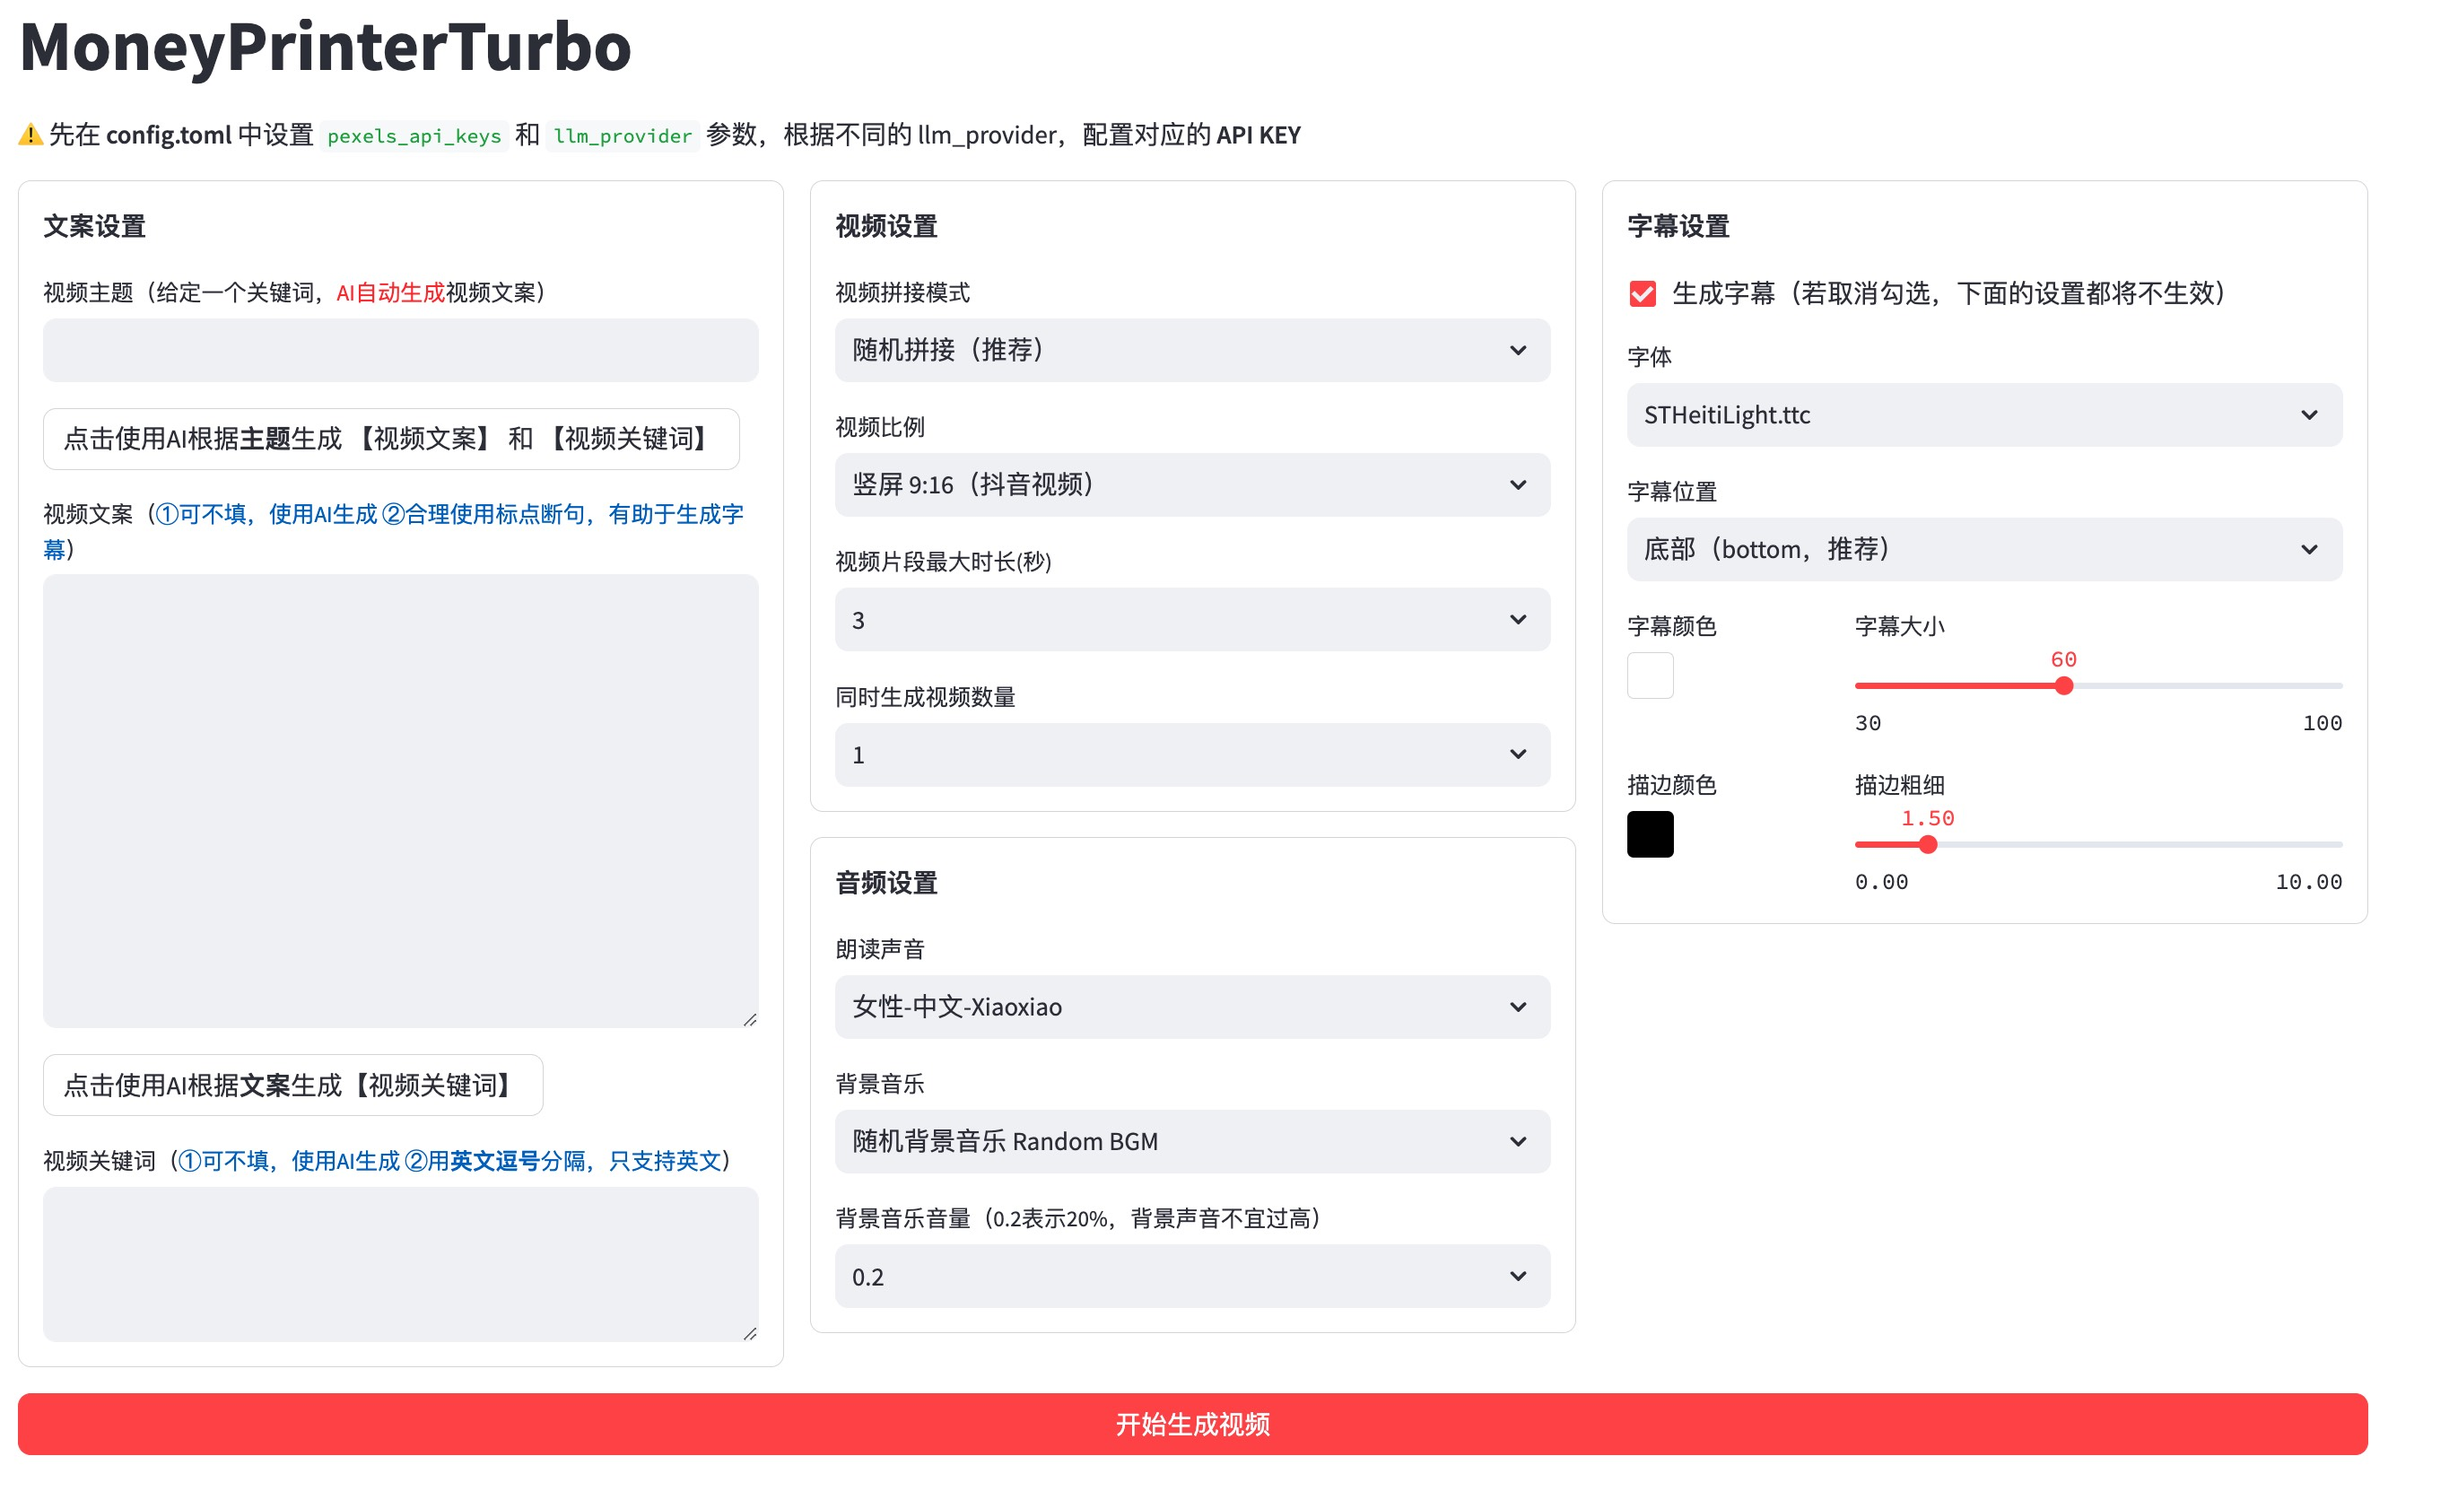
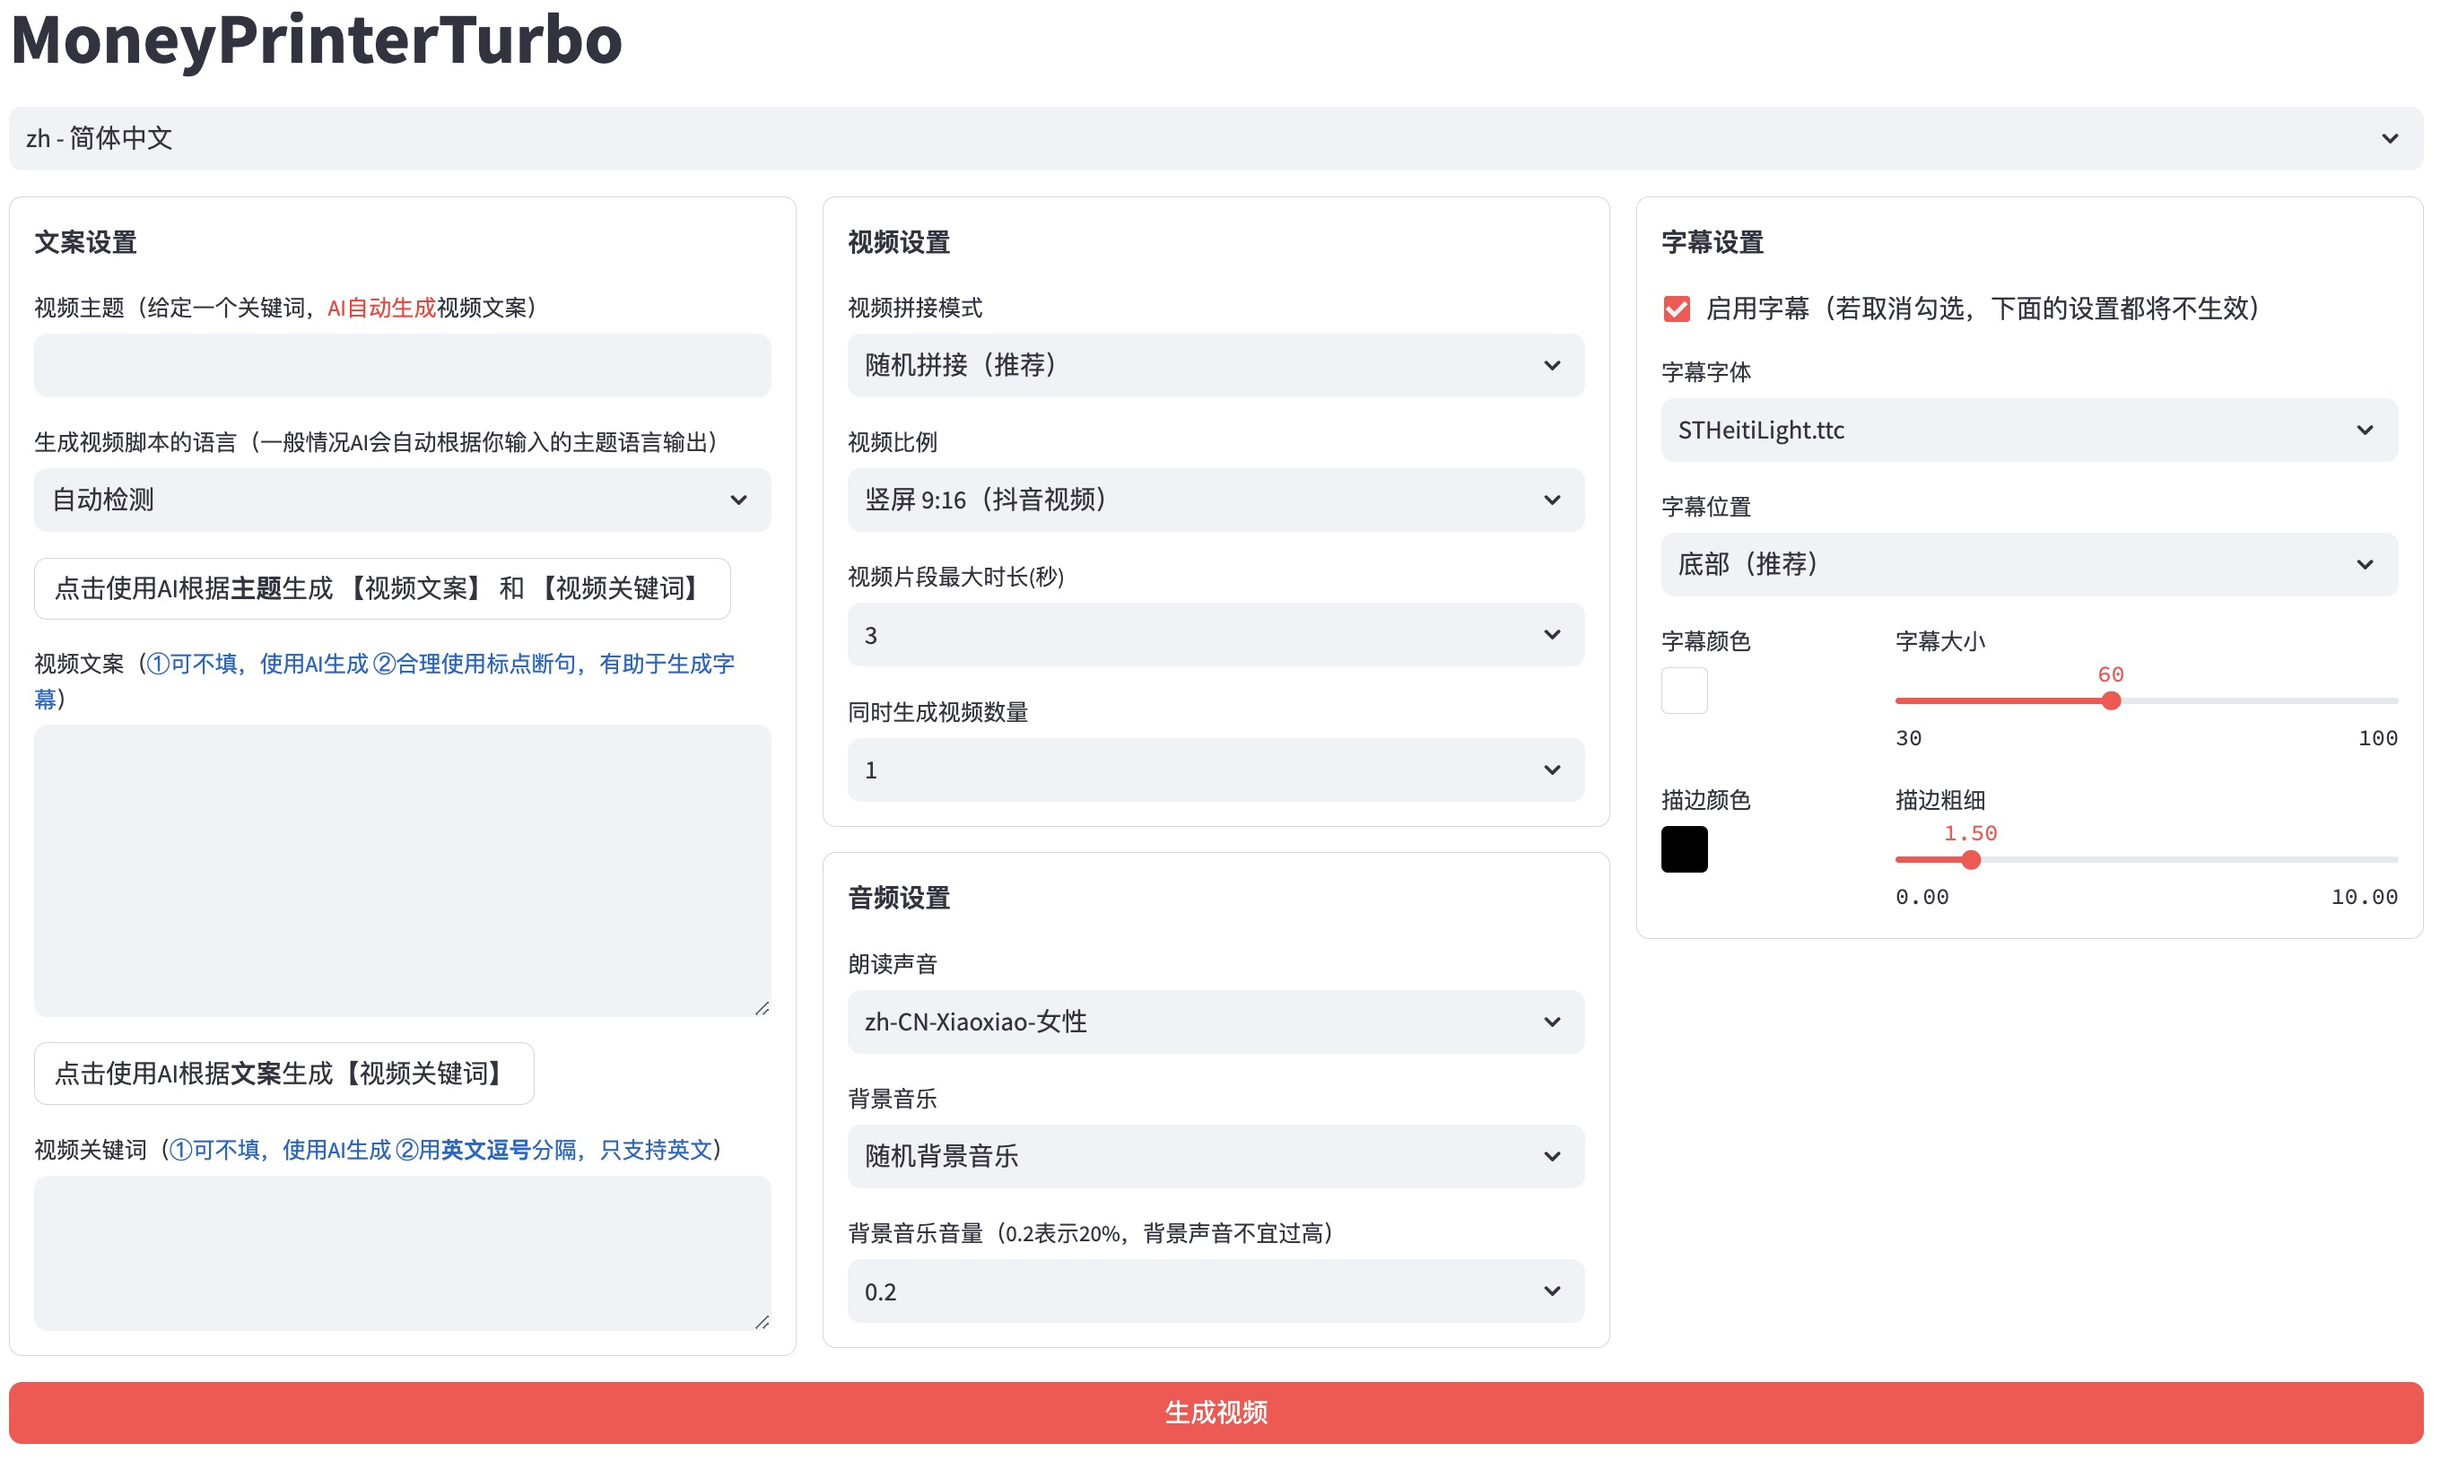
update readme

diff --git a/README-en.md b/README-en.md
@@ -1,6 +1,15 @@
-# MoneyPrinterTurbo 💸
+<div align="center">
+<h1 align="center">MoneyPrinterTurbo 💸</h1>
 
-[Chinese 简体中文](README.md)
+<p align="center">
+  <a href="https://github.com/harry0703/MoneyPrinterTurbo/stargazers"><img src="https://img.shields.io/github/stars/harry0703/MoneyPrinterTurbo.svg?style=for-the-badge" alt="Stargazers"></a>
+  <a href="https://github.com/harry0703/MoneyPrinterTurbo/issues"><img src="https://img.shields.io/github/issues/harry0703/MoneyPrinterTurbo.svg?style=for-the-badge" alt="Issues"></a>
+  <a href="https://github.com/harry0703/MoneyPrinterTurbo/network/members"><img src="https://img.shields.io/github/forks/harry0703/MoneyPrinterTurbo.svg?style=for-the-badge" alt="Forks"></a>
+  <a href="https://github.com/harry0703/MoneyPrinterTurbo/blob/main/LICENSE"><img src="https://img.shields.io/github/license/harry0703/MoneyPrinterTurbo.svg?style=for-the-badge" alt="License"></a>
+</p>
+
+English | [简体中文](README.md)
+
 
 > Thanks to [RootFTW](https://github.com/Root-FTW) for the translation
 
@@ -8,7 +17,8 @@
 Simply provide a **topic** or **keyword** for a video, and it will automatically generate the video copy, video
 materials, video subtitles, and video background music before synthesizing a high-definition short video.
 
-![](docs/webui.jpg)
+![](docs/webui-en.jpg)
+</div>
 
 ## Special Thanks 🙏
 
@@ -38,8 +48,8 @@ https://reccloud.com
   supports `subtitle outlining`
 - [x] Supports **background music**, either random or specified music files, with adjustable `background music volume`
 - [x] Video material sources are **high-definition** and **royalty-free**
-- [x] Supports integration with various models such as **OpenAI**, **moonshot**, **Azure**, **gpt4free**, **one-api**, *
-  *qianwen**
+- [x] Supports integration with various models such as **OpenAI**, **moonshot**, **Azure**, **gpt4free**, **one-api**,
+  **qianwen**
   and more
 
 ### Future Plans 📅
@@ -86,11 +96,6 @@ pip install -r requirements.txt
 ```
 
 ## Quick Start 🚀
-
-### Video Tutorials
-
-- Complete usage demonstration: https://v.douyin.com/iFhnwsKY/
-- How to deploy on Windows: https://v.douyin.com/iFyjoW3M
 
 ### Prerequisites
 
@@ -159,7 +164,7 @@ sh webui.sh
 After launching, the browser will open automatically
 
 The effect is shown in the following image:
-![](docs/webui.jpg)
+![](docs/webui-en.jpg)
 
 ### Launch the API Service 🚀
 

diff --git a/README.md b/README.md
@@ -1,10 +1,20 @@
-# MoneyPrinterTurbo 💸
+<div align="center">
+<h1 align="center">MoneyPrinterTurbo 💸</h1>
 
-[English](README-en.md)
+<p align="center">
+  <a href="https://github.com/harry0703/MoneyPrinterTurbo/stargazers"><img src="https://img.shields.io/github/stars/harry0703/MoneyPrinterTurbo.svg?style=for-the-badge" alt="Stargazers"></a>
+  <a href="https://github.com/harry0703/MoneyPrinterTurbo/issues"><img src="https://img.shields.io/github/issues/harry0703/MoneyPrinterTurbo.svg?style=for-the-badge" alt="Issues"></a>
+  <a href="https://github.com/harry0703/MoneyPrinterTurbo/network/members"><img src="https://img.shields.io/github/forks/harry0703/MoneyPrinterTurbo.svg?style=for-the-badge" alt="Forks"></a>
+  <a href="https://github.com/harry0703/MoneyPrinterTurbo/blob/main/LICENSE"><img src="https://img.shields.io/github/license/harry0703/MoneyPrinterTurbo.svg?style=for-the-badge" alt="License"></a>
+</p>
+
+[English](README-en.md) | 简体中文
 
 只需提供一个视频 **主题** 或 **关键词** ，就可以全自动生成视频文案、视频素材、视频字幕、视频背景音乐，然后合成一个高清的短视频。
 
 ![](docs/webui.jpg)
+
+</div>
 
 ## 特别感谢 🙏
 
